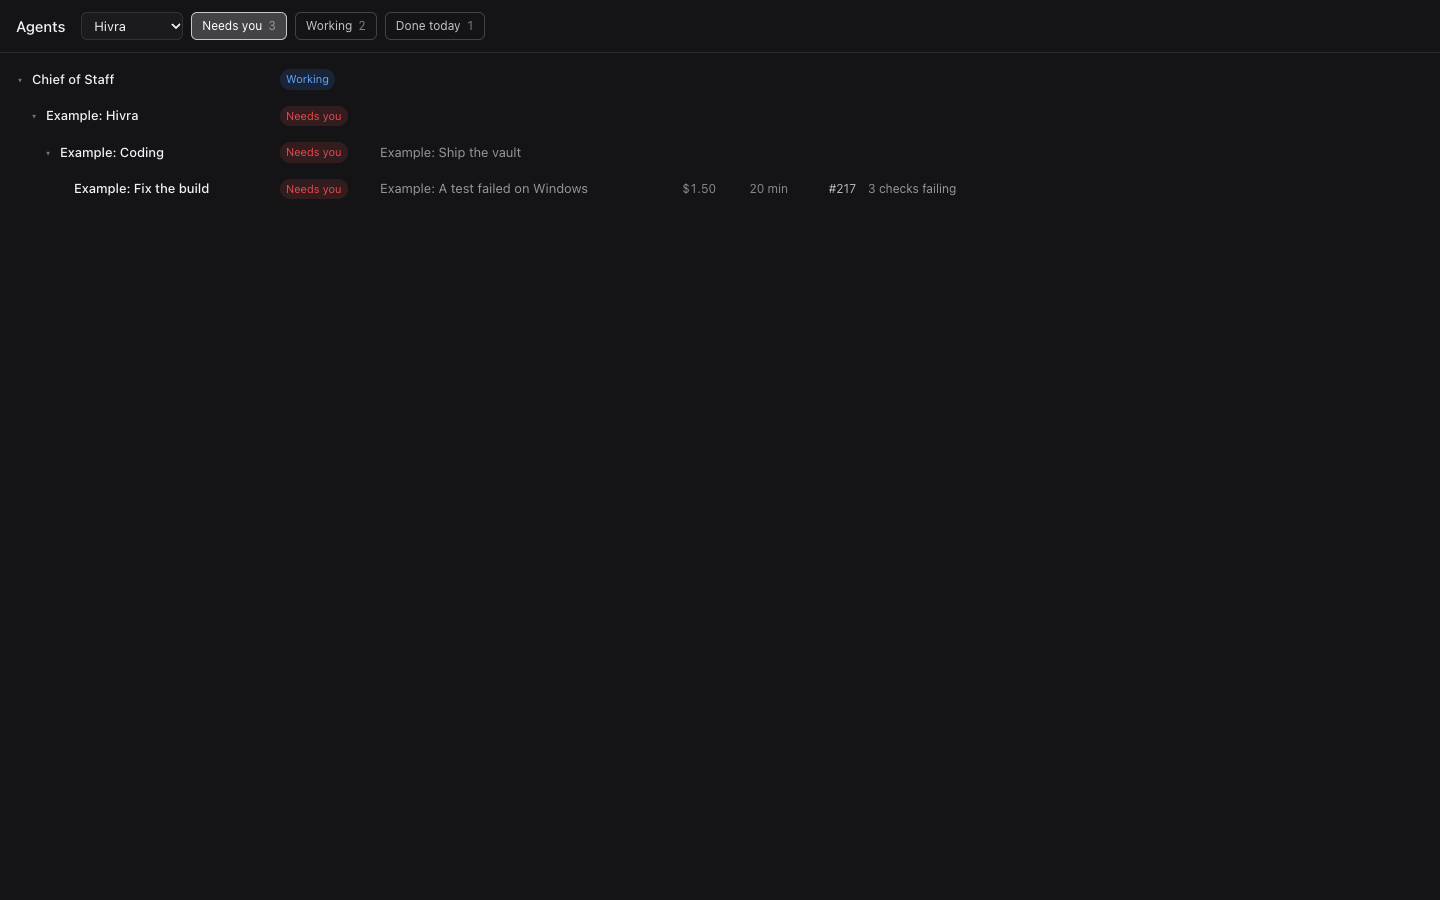
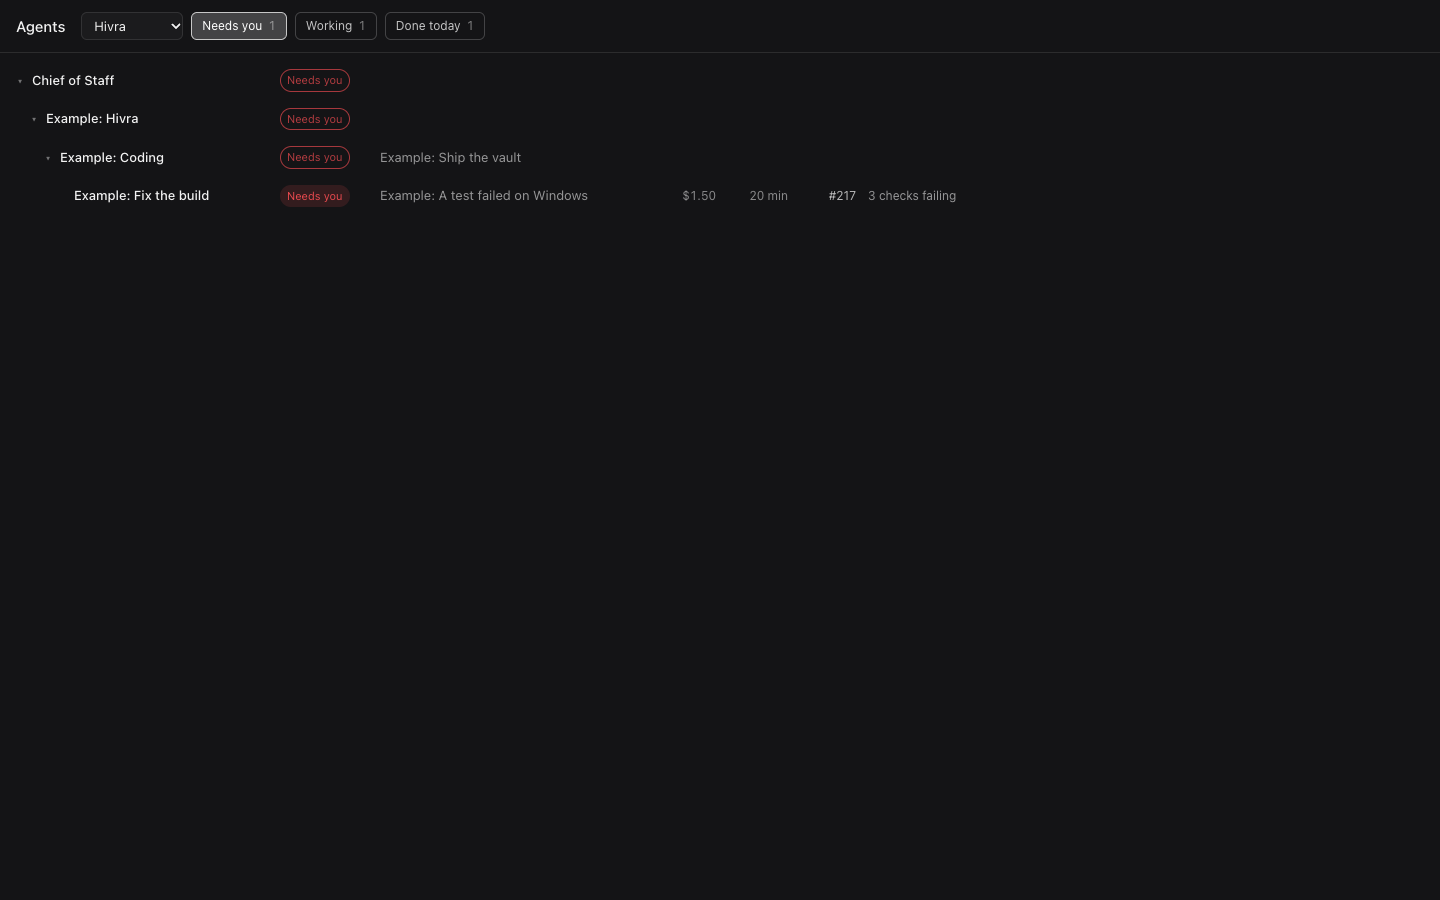
Outline a state that comes from a row under it.
A filled chip is the row's own state. An outline means the state comes from a child, so a parent does not look like it needs you itself. The browser spec checks Needs you is 1 with and without the Hivra filter.

diff --git a/src/features/agents-board/ui/AgentsBoard.tsx b/src/features/agents-board/ui/AgentsBoard.tsx
@@ -7,11 +7,27 @@ import { filterBoard, settledToday, type BoardFilter, type BoardStateFilter } fr
 import { cancelStop, confirmStop, requestStop, stopTarget, type StopPhase } from "../model/stop";
 import { flattenBoard, type BoardNode, type BoardState } from "../model/tree";
 
-const CHIP: Record<BoardState, { label: string; className: string }> = {
-  "needs-you": { label: "Needs you", className: "bg-[#e5484d]/15 text-[#e5484d]" },
-  working: { label: "Working", className: "bg-[#3b82f6]/15 text-[#60a5fa]" },
-  done: { label: "Done", className: "bg-emerald-400/15 text-emerald-300" },
-  idle: { label: "Idle", className: "bg-white/10 text-white/45" },
+const CHIP: Record<BoardState, { label: string; own: string; rolled: string }> = {
+  "needs-you": {
+    label: "Needs you",
+    own: "border border-transparent bg-[#e5484d]/15 text-[#e5484d]",
+    rolled: "border border-[#e5484d]/70 bg-transparent text-[#e5484d]/75",
+  },
+  working: {
+    label: "Working",
+    own: "border border-transparent bg-[#3b82f6]/15 text-[#60a5fa]",
+    rolled: "border border-[#60a5fa]/60 bg-transparent text-[#60a5fa]/75",
+  },
+  done: {
+    label: "Done",
+    own: "border border-transparent bg-emerald-400/15 text-emerald-300",
+    rolled: "border border-emerald-300/55 bg-transparent text-emerald-300/75",
+  },
+  idle: {
+    label: "Idle",
+    own: "border border-transparent bg-white/10 text-white/45",
+    rolled: "border border-white/30 bg-transparent text-white/40",
+  },
 };
 
 export function AgentsBoard({
@@ -96,7 +112,7 @@ export function AgentsBoard({
           <aside data-readonly-chat className="flex w-[380px] shrink-0 flex-col border-l border-white/10">
             <div className="border-b border-white/10 px-4 py-3">
               <p className="text-[14px] font-medium">{current.name}</p>
-              <p className="mt-1 text-[12px] text-white/50">{CHIP[current.state].label}</p>
+              <p className="mt-1 text-[12px] text-white/50">{chipText(current)}</p>
             </div>
             <div className="min-h-0 flex-1 space-y-2 overflow-auto px-4 py-3 text-[13px] leading-5 text-white/80">
               {(lines[current.id] ?? []).length ? (
@@ -129,6 +145,11 @@ export function AgentsBoard({
       </div>
     </div>
   );
+}
+
+function chipText(node: BoardNode): string {
+  const label = CHIP[node.state].label;
+  return node.rolledUp ? `${label}, from a row under it` : label;
 }
 
 function setState(
@@ -195,6 +216,7 @@ function Rows({
         data-node={node.id}
         data-role={node.role}
         data-state={node.state}
+        data-rolled={node.rolledUp ? "true" : "false"}
         data-done-today={doneToday ? "true" : "false"}
         onClick={() => onPick(node.id)}
         className={`grid cursor-pointer items-center gap-x-3 px-3 py-2 text-[13px] ${selected === node.id ? "bg-white/8" : "hover:bg-white/5"}`}
@@ -227,7 +249,12 @@ function Rows({
             <span data-name>{node.name}</span>
           </button>
         </div>
-        <span data-chip className={`justify-self-start rounded-full px-1.5 py-0.5 text-[11px] ${CHIP[node.state].className}`}>
+        <span
+          data-chip
+          data-rolled={node.rolledUp ? "true" : "false"}
+          title={node.rolledUp ? "From a row under it" : undefined}
+          className={`justify-self-start rounded-full px-1.5 py-0.5 text-[11px] ${node.rolledUp ? CHIP[node.state].rolled : CHIP[node.state].own}`}
+        >
           {CHIP[node.state].label}
         </span>
         <span className="min-w-0 truncate text-white/55">{node.task ?? ""}</span>

diff --git a/tests/browser/wp219-agents-board.spec.ts b/tests/browser/wp219-agents-board.spec.ts
@@ -35,6 +35,15 @@ test("the agents board", async ({ page }, info) => {
   await expect(board.getByRole("option", { name: "Crew" })).toHaveCount(0);
   await expect(board).not.toContainText("stuck");
   await expect(board.locator("input, textarea, [contenteditable='true']")).toHaveCount(0);
+  await expect(board.locator("[data-node='captain']")).toHaveAttribute("data-state", "needs-you");
+  await expect(board.locator("[data-node='captain']")).toHaveAttribute("data-rolled", "true");
+  await expect(board.locator("[data-node='newer']")).toHaveAttribute("data-state", "needs-you");
+  await expect(board.locator("[data-node='newer']")).toHaveAttribute("data-rolled", "false");
+  await expect(board.locator("[data-node='captain'] [data-chip]")).toHaveAttribute("data-rolled", "true");
+  await expect(board.locator("[data-node='newer'] [data-chip]")).toHaveAttribute("data-rolled", "false");
+  await expectCount(board, "Needs you", "1");
+  await expectCount(board, "Working", "2");
+  await expectCount(board, "Done today", "1");
   await expectChipCounts(board);
   if (shoot) await page.screenshot({ path: `${afterDir}/tree.png` });
 
@@ -42,6 +51,9 @@ test("the agents board", async ({ page }, info) => {
   await expect(board.getByText("Example: Look at EXO")).toHaveCount(0);
   await expect(board.getByText("Example: Home")).toHaveCount(0);
   await expect(board.getByText("Example: Fix the build")).toBeVisible();
+  await expectCount(board, "Needs you", "1");
+  await expectCount(board, "Working", "1");
+  await expectCount(board, "Done today", "1");
   await expectChipCounts(board);
   const needsYou = board.getByRole("button", { name: "Needs you", exact: true });
   await expect(needsYou).toHaveAttribute("aria-pressed", "false");
@@ -70,11 +82,15 @@ test("the agents board", async ({ page }, info) => {
   await expect(chat.getByText("Read only")).toBeVisible();
 });
 
+async function expectCount(board: import("@playwright/test").Locator, name: string, count: string) {
+  await expect(board.getByRole("button", { name, exact: true }).locator("[data-count]")).toHaveText(count);
+}
+
 async function expectChipCounts(board: import("@playwright/test").Locator) {
-  const needs = await board.locator("[data-state='needs-you']").count();
-  const working = await board.locator("[data-state='working']").count();
-  const doneToday = await board.locator("[data-done-today='true']").count();
-  await expect(board.getByRole("button", { name: "Needs you", exact: true }).locator("[data-count]")).toHaveText(String(needs));
-  await expect(board.getByRole("button", { name: "Working", exact: true }).locator("[data-count]")).toHaveText(String(working));
-  await expect(board.getByRole("button", { name: "Done today", exact: true }).locator("[data-count]")).toHaveText(String(doneToday));
+  const needs = await board.locator("[data-state='needs-you'][data-rolled='false']").count();
+  const working = await board.locator("[data-state='working'][data-rolled='false']").count();
+  const doneToday = await board.locator("[data-done-today='true'][data-rolled='false']").count();
+  await expectCount(board, "Needs you", String(needs));
+  await expectCount(board, "Working", String(working));
+  await expectCount(board, "Done today", String(doneToday));
 }
